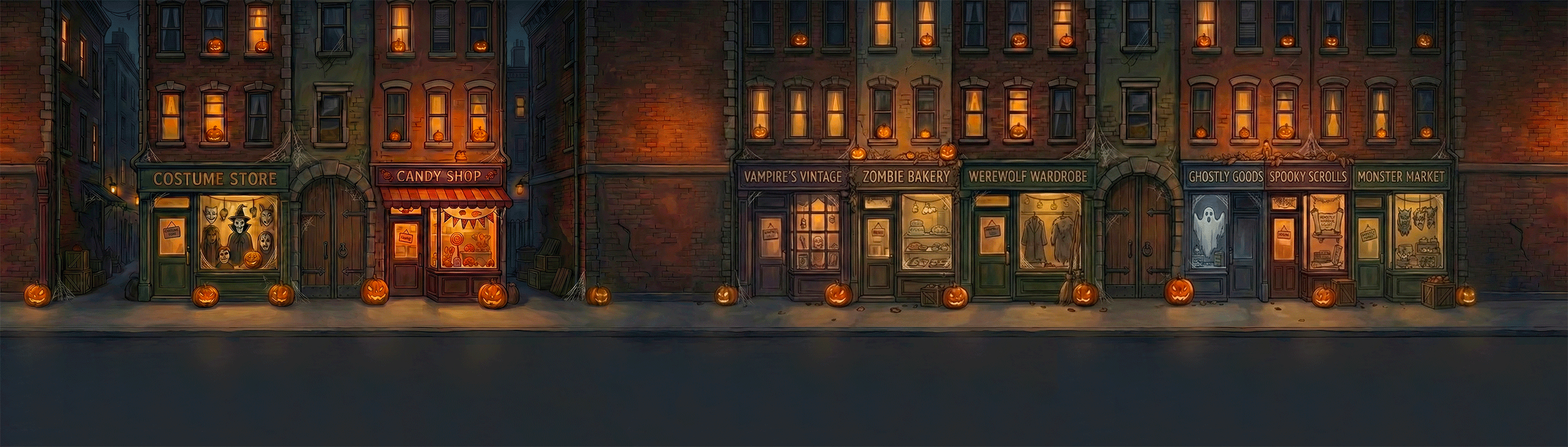
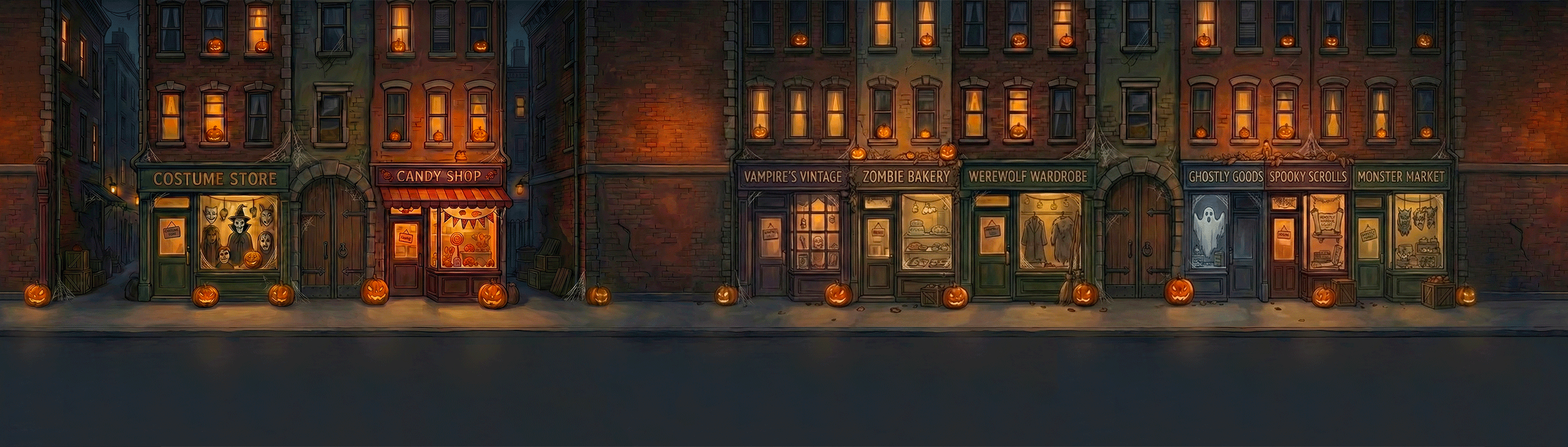
sfondo

diff --git a/globalGameJam/src/main/java/it/gamejam/truncate/bubblenap/ui/MenuPanel.java b/globalGameJam/src/main/java/it/gamejam/truncate/bubblenap/ui/MenuPanel.java
@@ -21,7 +21,8 @@ public class MenuPanel extends JPanel {
 	private static Image creditsButtonImage = ImageLoader.getImageCredits();
 	// private static Image titleImage = ImageLoader.getImageTitle();
 
-	private static Image Background = ImageLoader.getImageBackground();
+	//private static Image background = ImageLoader.getImageBackground();
+	private static Image background = ImageLoader.getGameScreen();
 
 	private static int PLAY_BUTTON_X = 750;
 	private static int PLAY_BUTTON_Y = 270;
@@ -50,7 +51,7 @@ public class MenuPanel extends JPanel {
 				if ((e.getX() >= EXIT_X) && (e.getX() <= (EXIT_X + ImageLoader.getImageExit().getWidth(null)))
 						&& (e.getY() >= EXIT_Y)
 						&& (e.getY() <= (EXIT_Y + ImageLoader.getImageExit().getHeight(null)))) {
-					SimpleAudioPlayer.playSyncSoundOnce(SoundProvider.getBubbleMenuClick(), 3f);
+					//SimpleAudioPlayer.playSyncSoundOnce(SoundProvider.getBubbleMenuClick(), 3f);
 
 					System.exit(0);
 				}
@@ -132,7 +133,7 @@ public class MenuPanel extends JPanel {
         g2d.setRenderingHint(RenderingHints.KEY_ANTIALIASING, RenderingHints.VALUE_ANTIALIAS_ON);
         g2d.setRenderingHint(RenderingHints.KEY_TEXT_ANTIALIASING, RenderingHints.VALUE_TEXT_ANTIALIAS_ON);
 
-		g.drawImage(Background, 0, 0, this.getWidth(), this.getHeight(), null);
+		g.drawImage(background, 0, 0, 2690, this.getHeight(), null);
 
 		g.setColor(Color.WHITE);
 		g.setFont(titleFont);
@@ -145,7 +146,7 @@ public class MenuPanel extends JPanel {
 		g.setColor(C_GREEN);
 		g.setFont(titleFont);
 
-		g.drawString("Bubble Nap", 50, 180);
+		g.drawString("Mask or Die", 20, 180);
 
 	}
 
